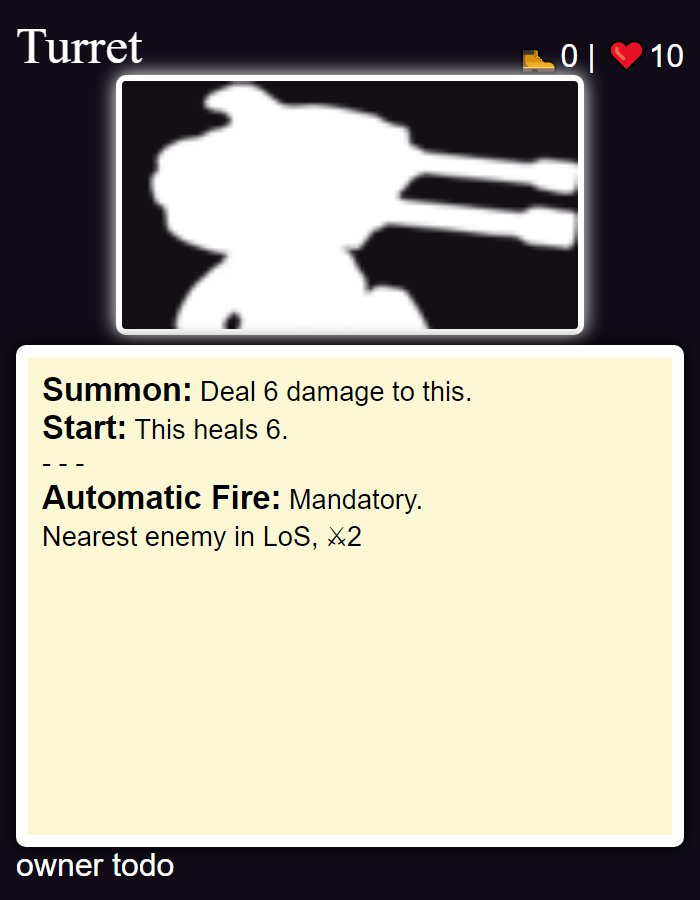
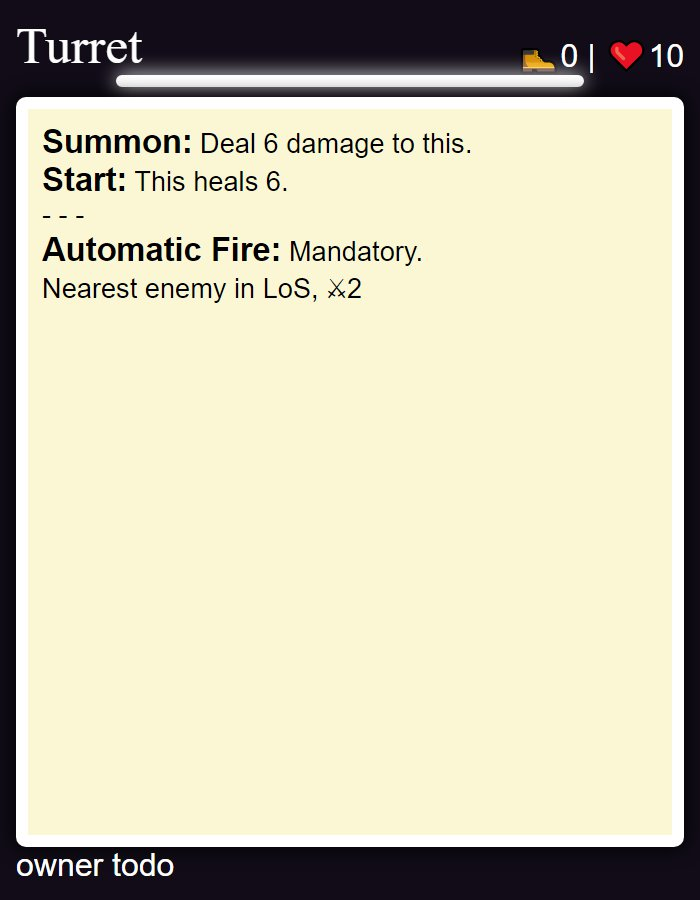
self host image urls

Changed region(s): [[0.0, 0.0622, 0.99, 0.4978], [0.06, 0.5289, 0.6, 0.6222]]

diff --git a/self_host_tokens.py b/self_host_tokens.py
@@ -31,6 +31,9 @@ def localize_image_urls(data: dict):
 
 
 def save_image(url: str, data: dict):
+    if "http" in url or "tactics.toren.dev" in url:
+        return  # already saved.
+
     name = f"image_token_{data['name']}_{str(hash(url))}"
     print(f"Saving {name}")
     # if not exists
